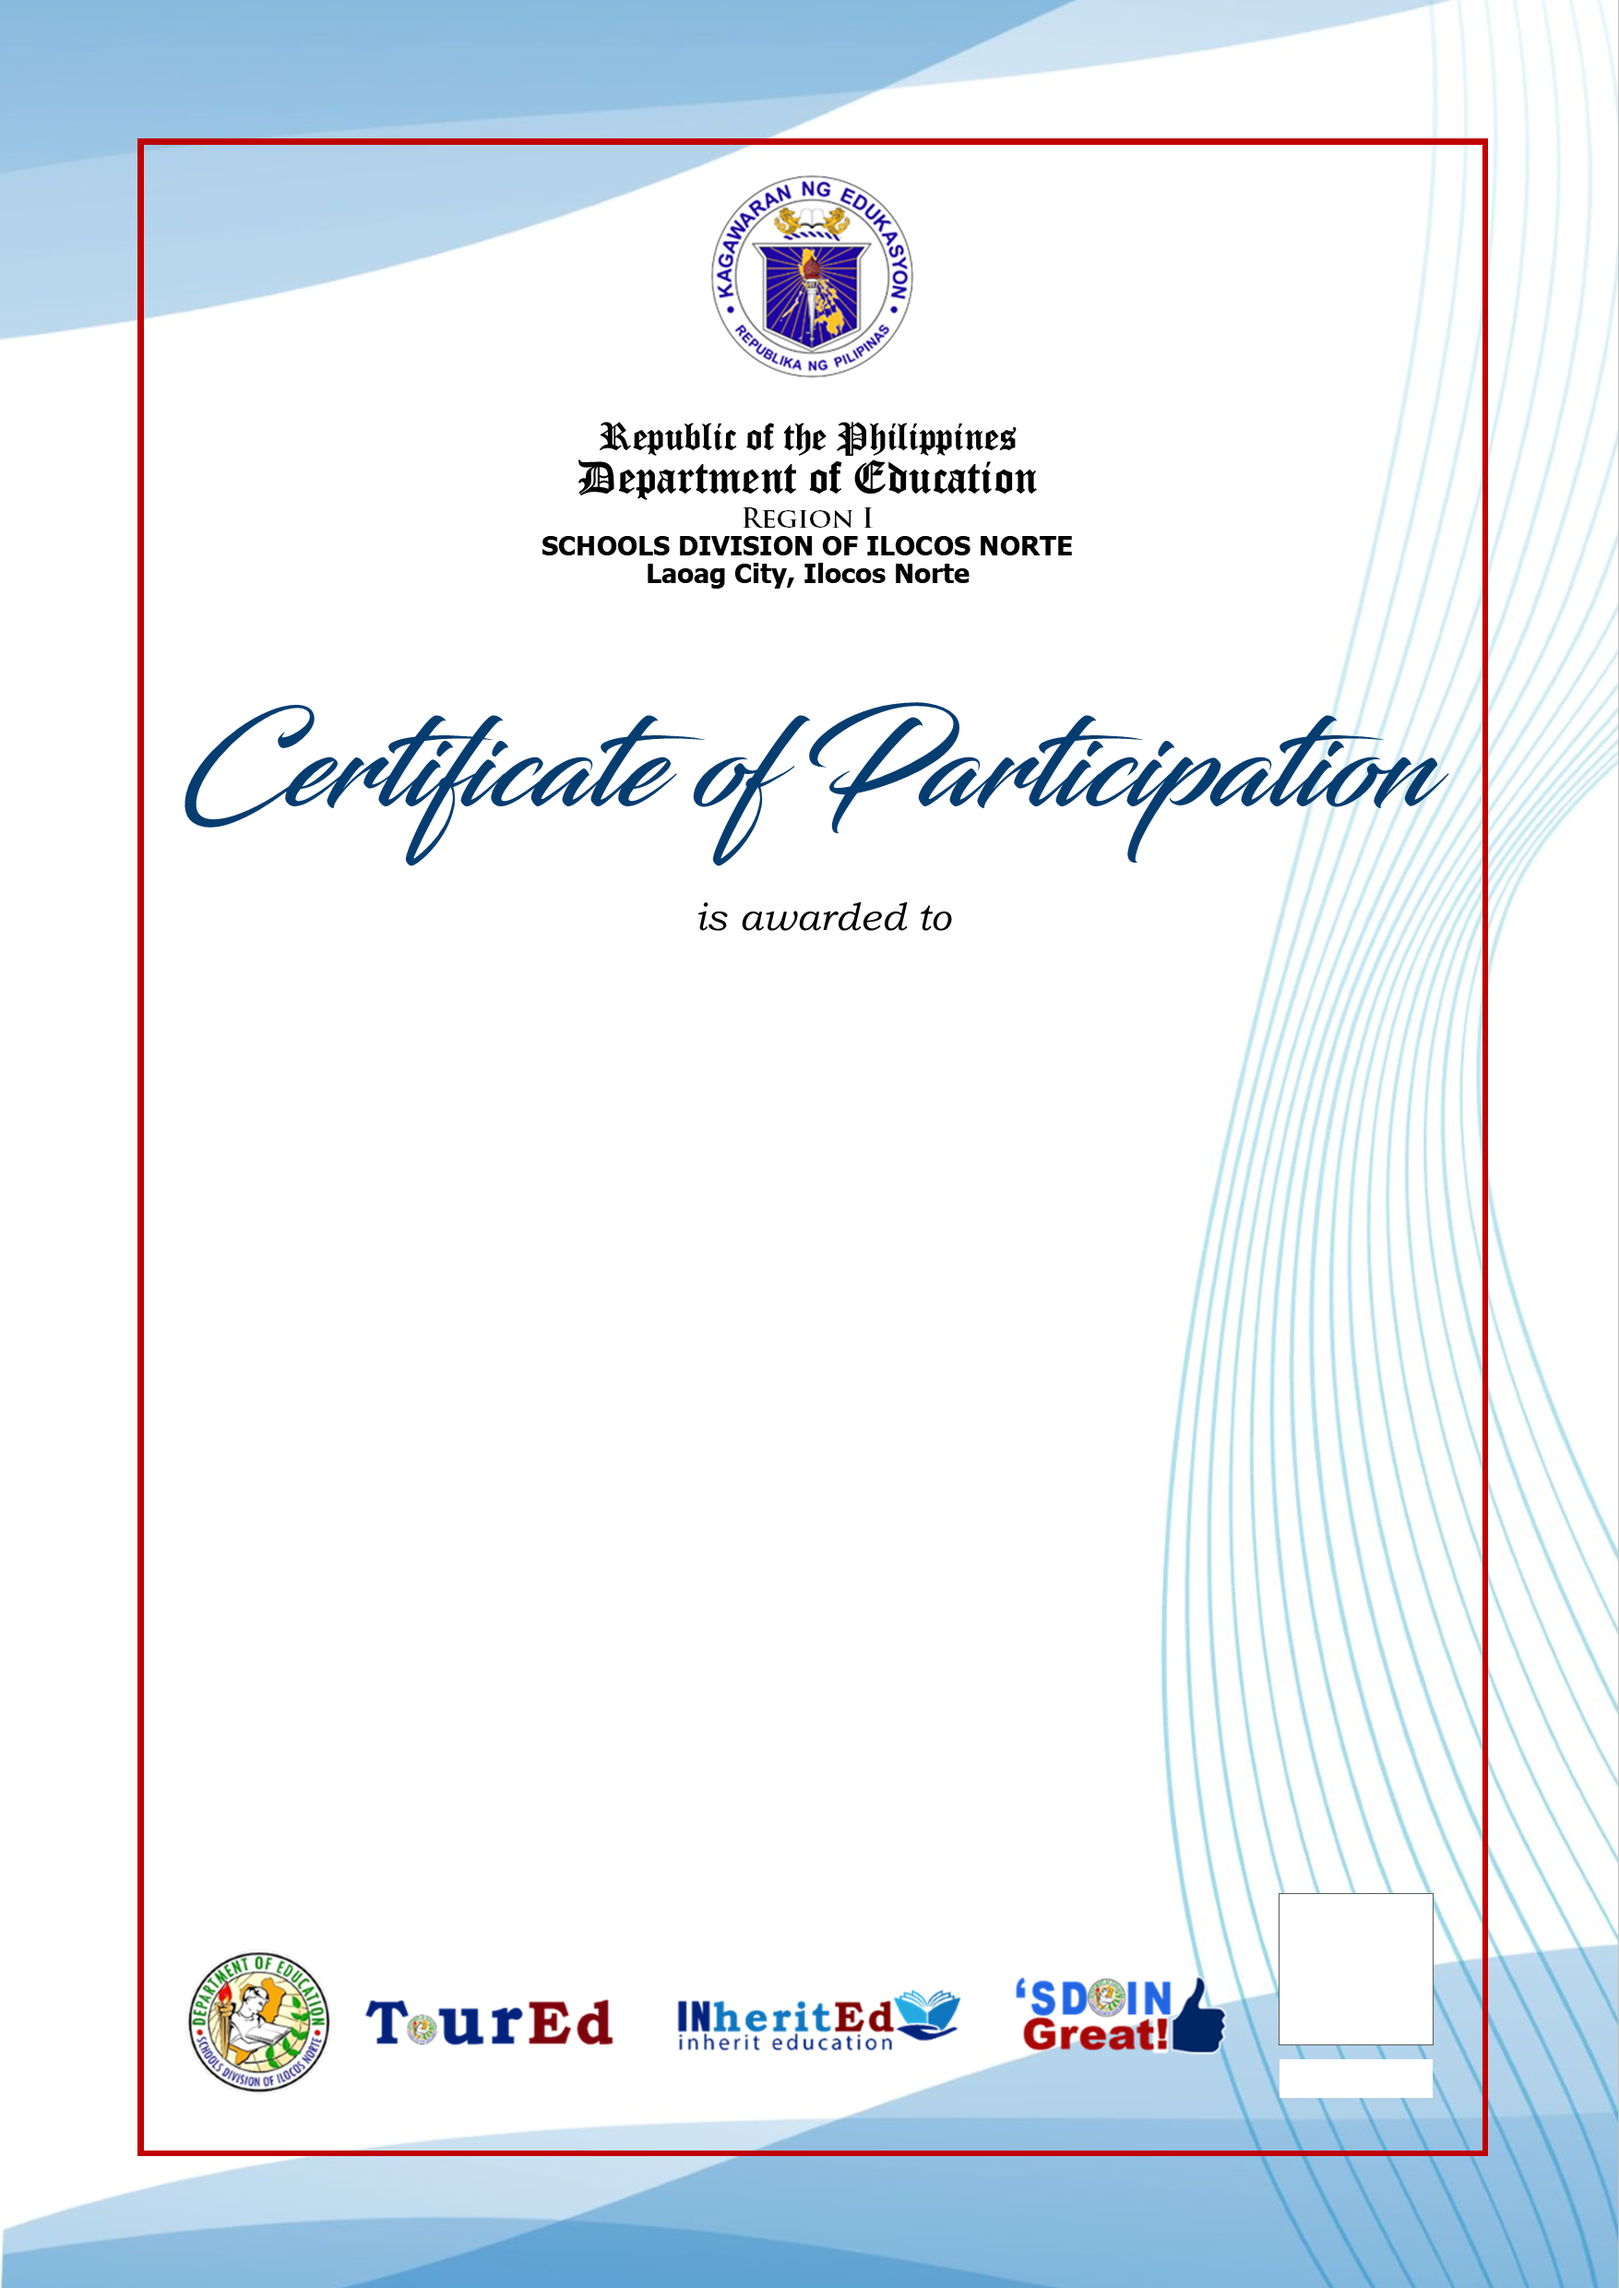
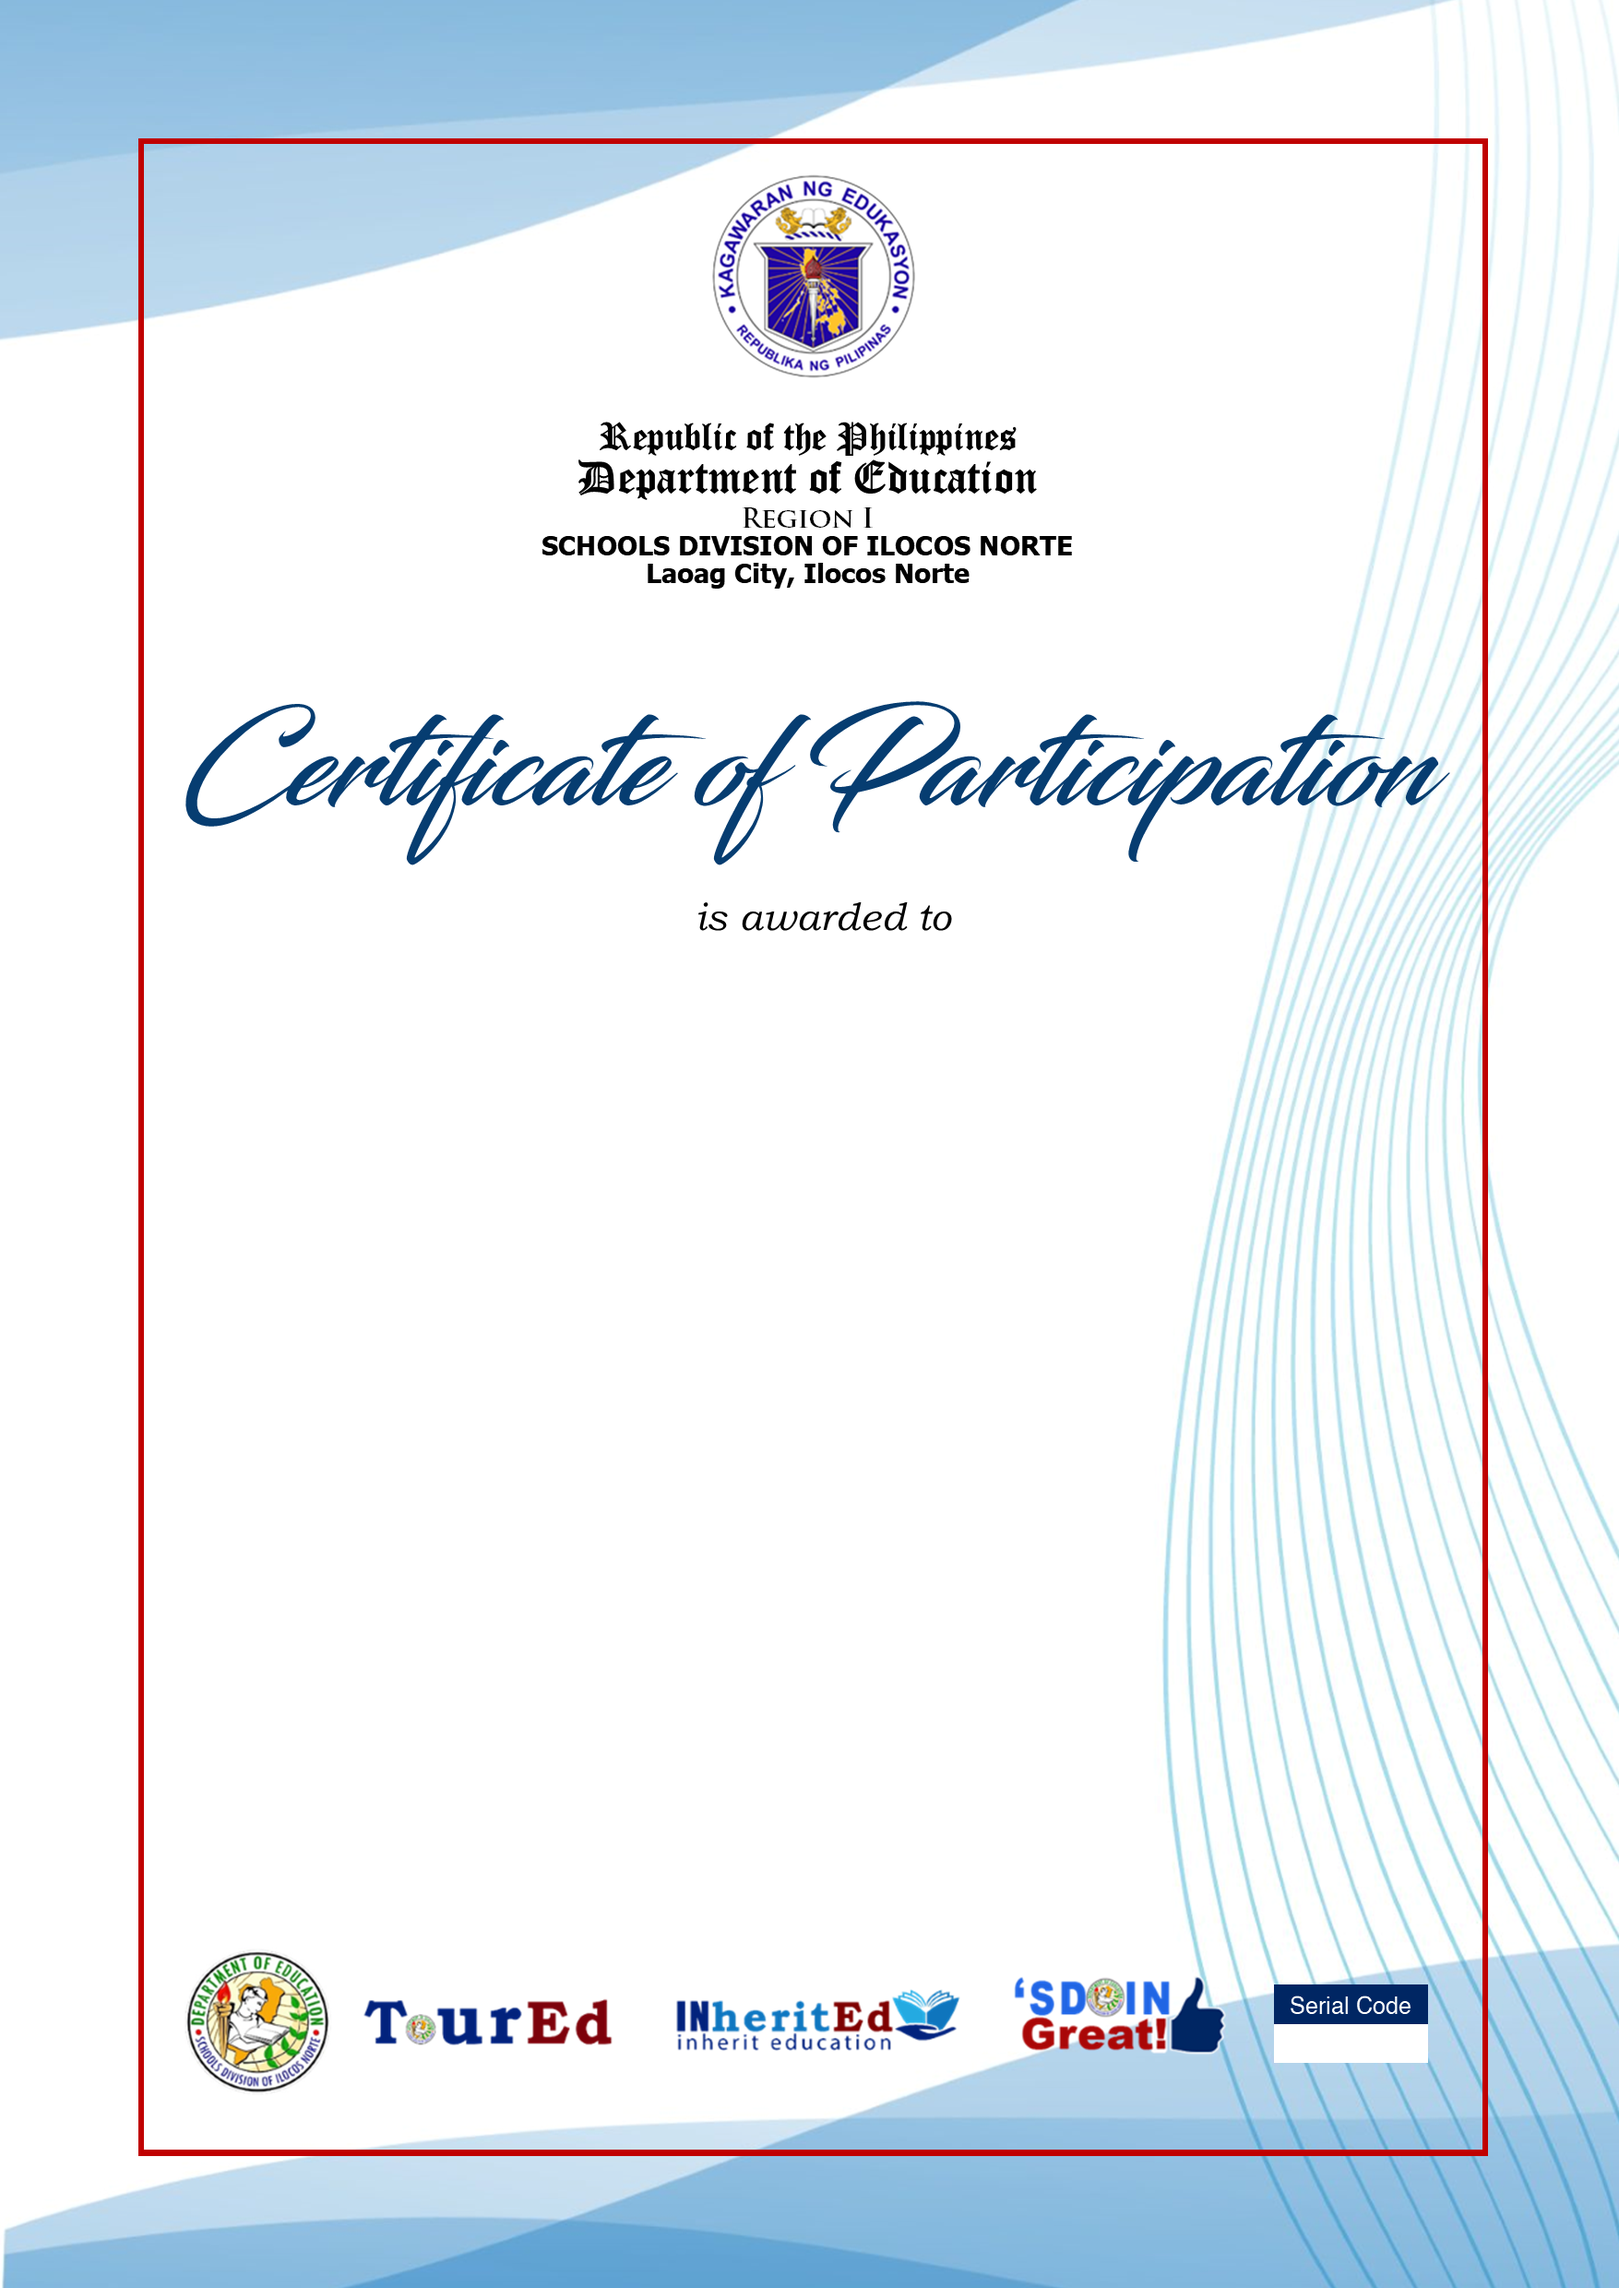
removed unnecesary images, cert revamp again

diff --git a/app/Views/certificate.php b/app/Views/certificate.php
@@ -172,13 +172,13 @@
         }
 
         .unique-code {
-            font-family: Tahoma, sans-serif;
+            font-family: Tahoma;
             position: absolute;
-            top: 63.5rem;
-            left: 39.45rem;
+            top: 62.3rem;
+            left: 39.2rem;
             font-weight: 900;
-            font-size: 6.6pt;
-            width: 70px;
+            font-size: 7pt;
+            width: 76px;
 
         }
     </style>
@@ -201,7 +201,6 @@
                     <div class="seminar-title">
                         <?= $seminar['title']; ?>
                     </div>
-                    Program
                 </div>
                 <br>
                 <div class="venue">held at
